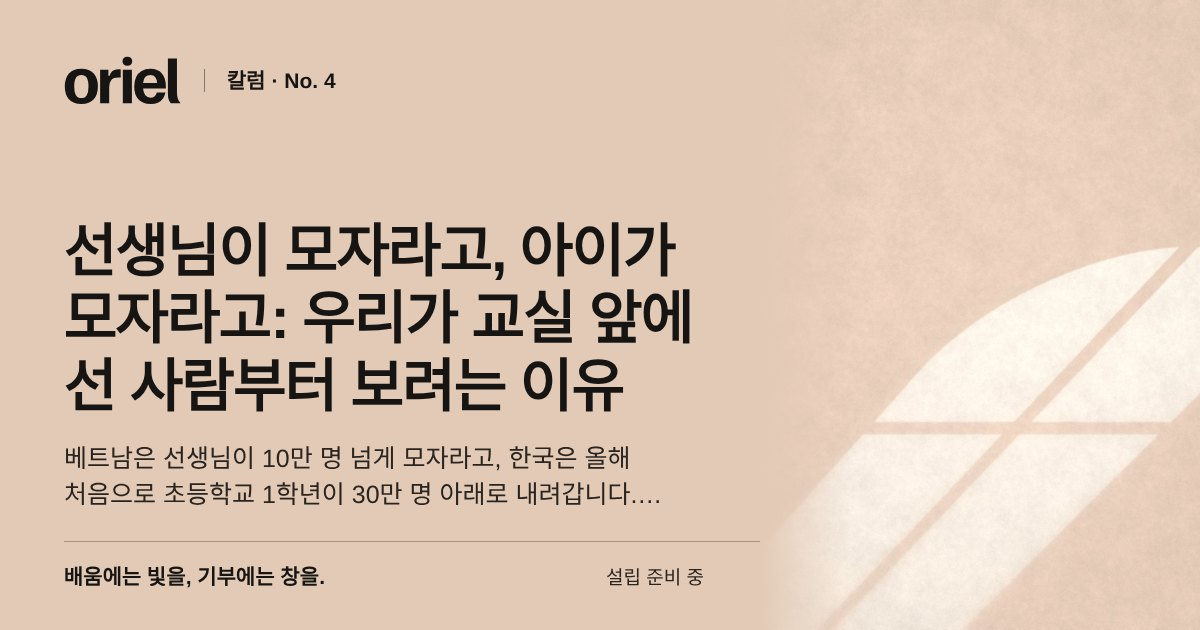
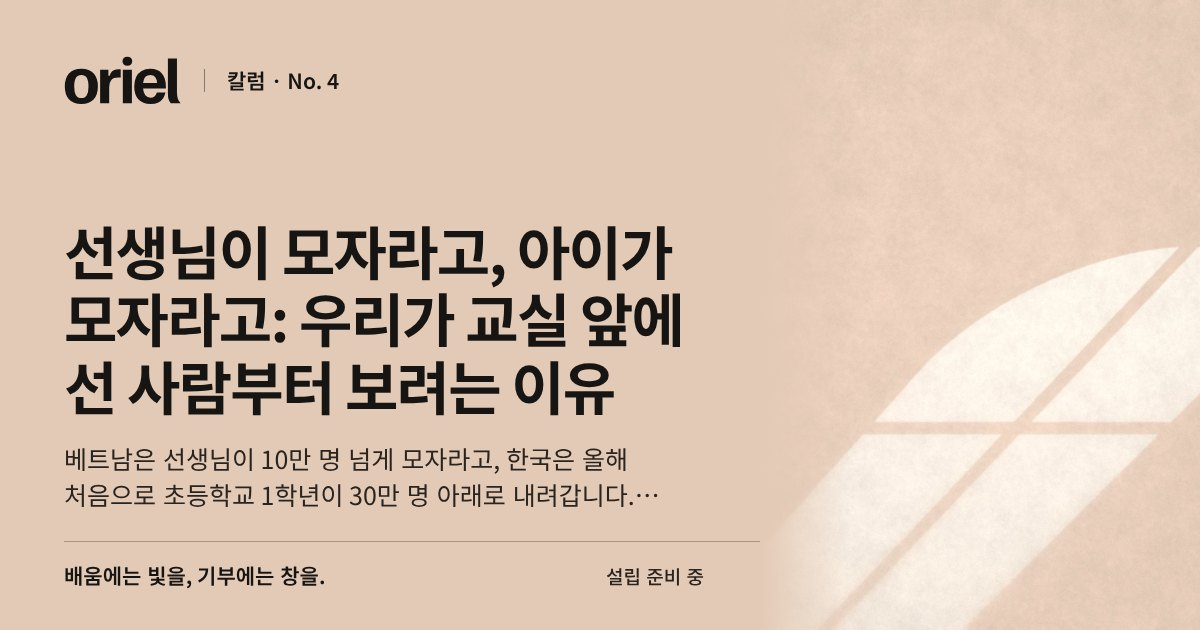
GivingTuesday 창 이미지·서포터 신청 QR, og 이미지 원래 글꼴로 다시 그림
- marketing/2026-W49-givingtuesday: 영/한 세로(1080×1350)·가로(1200×675) 4장, 신청 QR 2장, 생성 스크립트
- 이번 주 og 4장: 대체 글꼴로 그려졌던 것을 Familjen Grotesk·Noto Sans KR로 교체
- ROADMAP 완료 기록

Claude-Session: https://claude.ai/code/session_01CHRf4JJz9d4mnZ4btTTVcs

diff --git a/docs/ROADMAP.md b/docs/ROADMAP.md
@@ -25,6 +25,7 @@ The daily improvement task reads and updates this file. Top = highest priority. 
 - [ ] 한국어판: 칼럼·읽을거리 본문 문장도 한 번 소리 내어 읽듯 다듬기 (맞춤법·번역투)
 
 ## 완료
+- 2026-11-11 칼럼 No.4(교사 부족·초1 감소)·읽을거리 No.5(학교에 붙잡아 두는 것), og 4장. GivingTuesday 창 이미지 영/한 × 세로·가로 4장과 서포터 신청 QR 2장(marketing/2026-W49-givingtuesday). og 글꼴: 로컬에 Familjen Grotesk·Noto Sans KR/TC가 없으면 대체 글꼴로 그려지므로 ~/.fonts에 google/fonts 원본을 받아 둘 것
 - 2026-10-31 한국어판 다듬기: '사랑스런' → '사랑스러운'(첫 화면·설명·활동 일지), 활동 일지 소개 문장 자연스럽게. 한국어 줄바꿈: 소개 문단·첫 화면 라벨·상태 문구·소제목은 줄 길이를 고르게(text-wrap: balance), 본문은 마지막 줄에 한 단어만 남지 않게(pretty) — 예: 첫 화면 소개 문단이 '짓는 것이 목표입니다.' 한 줄로 떨어지던 것이 3줄 고르게. og 점검: 빌드가 공유 이미지 없는 페이지·안 쓰는 이미지를 알려 주고, `og.mjs --missing`으로 빠진 것만 만들기
 - 2026-10-30 페이지별 공유(og) 이미지: 영/한 32장(public/og/*.jpg, 1200×630) — 왼쪽에 oriel 워드마크·섹션 라벨(예: 칼럼 · No. 2)·페이지 제목·요약, 오른쪽에 창빛 사진(배움·생활·짓기 중 하나), 아래 태그라인·설립 준비 중. 기본 og.png도 히어로 그대로 새로 만들며 예전 'Southeast Asia' 문구 제거. og:url·og:locale·og:image 크기/alt·twitter 태그 추가, 글은 og:type=article. 키보드 초점: 2px 테두리로 굵게, 검정 띠 위에서는 복숭아색, 입력칸은 밑줄이 굵어지게(전에는 초점이 거의 안 보였음)
 - 2026-10-29 소개 페이지 깊게: '한눈에'(이름·상태·출범 2027년 1월 예정·하는 일·지역·미디어 파트너), '지키는 것' 4가지(끊기지 않는 도움·마을이 앞에·모든 기부가 보이게·아이가 먼저 + 투명성/아동보호 링크), '이야기 나누기'(이메일·텔레그램·채널) 추가, 영/한. 푸터 맨 아래 선을 본문 폭에 맞춤

diff --git a/marketing/2026-W49-givingtuesday/README.md b/marketing/2026-W49-givingtuesday/README.md
@@ -1,0 +1,8 @@
+# GivingTuesday (2026-12-01) 창 이미지 · 서포터 신청 QR
+
+- `givingtuesday-en-portrait.jpg` / `givingtuesday-ko-portrait.jpg` — 1080×1350, 링크드인·인스타 세로
+- `givingtuesday-en-wide.jpg` / `givingtuesday-ko-wide.jpg` — 1200×675, 텔레그램·X·링크드인 가로
+- `qr-get-involved-en.png` / `qr-get-involved-ko.png` — 창립 서포터 신청 페이지 QR(서포터의 밤 인쇄용, utm_campaign=supporters-night)
+
+문구는 모금 요청 없음(등록 전). 영어판에 번체 한 줄, 한국어판에도 번체 한 줄.
+다시 만들기: `node scripts/build.mjs && NODE_PATH=$(npm root -g) node marketing/2026-W49-givingtuesday/make.mjs`
